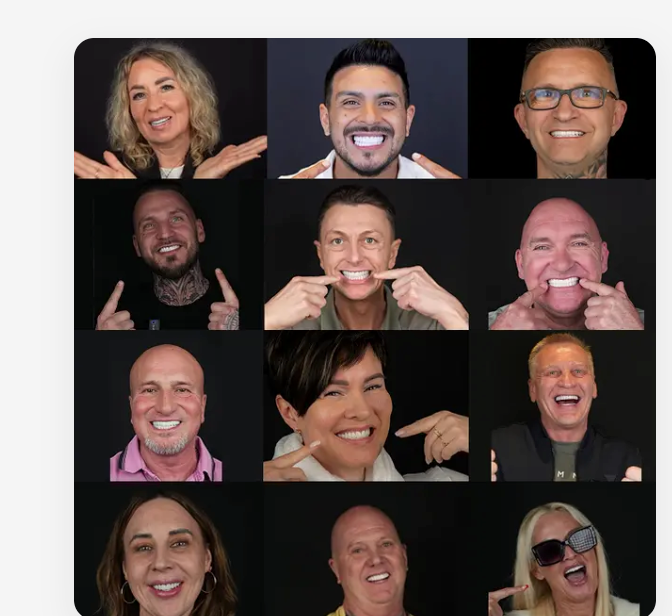
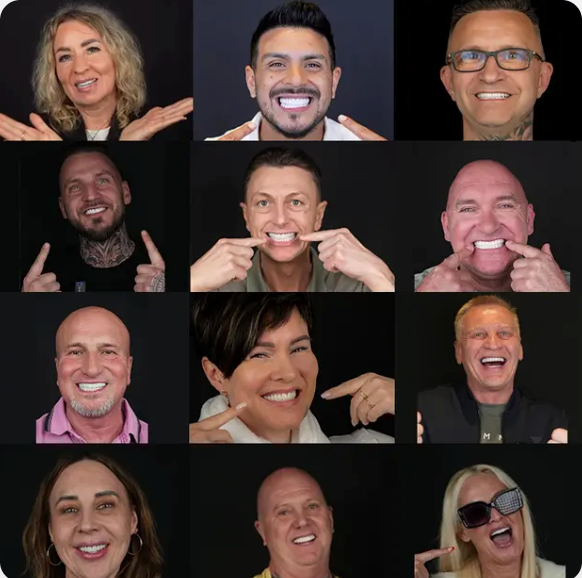
fix(sidebar): crop patient grid to remove margins, fix 1:1 aspect ratio, and update treatment thumbnail to 16:9 dental implant photo

diff --git a/src/components/gallery-sections/GalleryMainSection.tsx b/src/components/gallery-sections/GalleryMainSection.tsx
@@ -233,9 +233,9 @@ export default function GalleryMainSection() {
           <div className={styles.minikart}>
             <div className={styles.ad}>Master Smile Studio</div>
             <div className={styles.im}>
-              <Link href="/contact" aria-label="Free consultation">
+              <Link href="/contact" aria-label="Free consultation" className={styles.imLink}>
                 <Image
-                  src="/mss-afterpics-patients.png"
+                  src="/contact-patients-grid.png"
                   alt="Master Smile Studio VIP Consultation"
                   fill
                   sizes="320px"
@@ -289,13 +289,13 @@ export default function GalleryMainSection() {
                 <div key={idx} className={styles.treatmentItem}>
                   {item.hasImage && (
                     <div className={styles.treatmentThumb}>
-                      <Link href={item.href} aria-label={getLocalized(item.title)}>
+                      <Link href={item.href} aria-label={getLocalized(item.title)} className={styles.treatmentThumbLink}>
                         <Image
-                          src="/prices-treatment-thumb.webp"
+                          src="/dental-implant-mss.jpeg"
                           alt={getLocalized(item.title)}
                           fill
                           sizes="300px"
-                          style={{ objectFit: 'cover' }}
+                          style={{ objectFit: 'cover', objectPosition: 'center' }}
                         />
                       </Link>
                     </div>

diff --git a/src/components/reviews-sections/ReviewsMainSection.tsx b/src/components/reviews-sections/ReviewsMainSection.tsx
@@ -223,10 +223,10 @@ export default function ReviewsMainSection() {
               <div className={styles.imSide}>
                 <Link href="/contact" aria-label="Free consultation" className={styles.imLink}>
                   <Image
-                    src="/mss-afterpics-patients.png"
+                    src="/contact-patients-grid.png"
                     alt="Master Smile Studio VIP Consultation"
                     fill
-                    sizes="160px"
+                    sizes="320px"
                     className={styles.imImgSide}
                   />
                 </Link>
@@ -279,11 +279,11 @@ export default function ReviewsMainSection() {
                       <div className={styles.treatmentThumb}>
                         <Link href={item.href} aria-label={getLocalized(item.title)} className={styles.treatmentThumbLink}>
                           <Image
-                            src="/prices-treatment-thumb.webp"
+                            src="/dental-implant-mss.jpeg"
                             alt={getLocalized(item.title)}
                             fill
                             sizes="300px"
-                            style={{ objectFit: 'cover' }}
+                            style={{ objectFit: 'cover', objectPosition: 'center' }}
                           />
                         </Link>
                       </div>

diff --git a/src/components/blog-sections/BlogMainSection.tsx b/src/components/blog-sections/BlogMainSection.tsx
@@ -298,10 +298,10 @@ export default function BlogMainSection() {
               <div className={styles.imSide}>
                 <Link href="/contact" aria-label="Free consultation" className={styles.imLink}>
                   <Image
-                    src="/mss-afterpics-patients.png"
+                    src="/contact-patients-grid.png"
                     alt="Master Smile Studio VIP Consultation"
                     fill
-                    sizes="160px"
+                    sizes="320px"
                     className={styles.imImgSide}
                   />
                 </Link>
@@ -354,11 +354,11 @@ export default function BlogMainSection() {
                       <div className={styles.treatmentThumb}>
                         <Link href={item.href} aria-label={getLocalized(item.title)} className={styles.treatmentThumbLink}>
                           <Image
-                            src="/prices-treatment-thumb.webp"
+                            src="/dental-implant-mss.jpeg"
                             alt={getLocalized(item.title)}
                             fill
                             sizes="300px"
-                            style={{ objectFit: 'cover' }}
+                            style={{ objectFit: 'cover', objectPosition: 'center' }}
                           />
                         </Link>
                       </div>

diff --git a/src/components/before-after-sections/BeforeAfterMainSection.tsx b/src/components/before-after-sections/BeforeAfterMainSection.tsx
@@ -230,7 +230,7 @@ export default function BeforeAfterMainSection() {
               <div className={styles.imSide}>
                 <Link href="/contact" aria-label="Free consultation" className={styles.imLink}>
                   <Image
-                    src="/mss-afterpics-patients.png"
+                    src="/contact-patients-grid.png"
                     alt="Master Smile Studio VIP Consultation"
                     fill
                     sizes="320px"
@@ -286,11 +286,11 @@ export default function BeforeAfterMainSection() {
                       <div className={styles.treatmentThumb}>
                         <Link href={item.href} aria-label={getLocalized(item.title)} className={styles.treatmentThumbLink}>
                           <Image
-                            src="/prices-treatment-thumb.webp"
+                            src="/dental-implant-mss.jpeg"
                             alt={getLocalized(item.title)}
                             fill
                             sizes="300px"
-                            style={{ objectFit: 'cover' }}
+                            style={{ objectFit: 'cover', objectPosition: 'center' }}
                           />
                         </Link>
                       </div>

diff --git a/src/components/faq-sections/FaqMainSection.tsx b/src/components/faq-sections/FaqMainSection.tsx
@@ -220,7 +220,7 @@ export default function FaqMainSection() {
               <div className={styles.imSide}>
                 <Link href="/contact" aria-label="Free consultation" className={styles.imLink}>
                   <Image
-                    src="/mss-afterpics-patients.png"
+                    src="/contact-patients-grid.png"
                     alt="Master Smile Studio VIP Consultation"
                     fill
                     sizes="320px"
@@ -276,11 +276,11 @@ export default function FaqMainSection() {
                       <div className={styles.treatmentThumb}>
                         <Link href={item.href} aria-label={getLocalized(item.title)} className={styles.treatmentThumbLink}>
                           <Image
-                            src="/prices-treatment-thumb.webp"
+                            src="/dental-implant-mss.jpeg"
                             alt={getLocalized(item.title)}
                             fill
                             sizes="300px"
-                            style={{ objectFit: 'cover' }}
+                            style={{ objectFit: 'cover', objectPosition: 'center' }}
                           />
                         </Link>
                       </div>

diff --git a/src/data/price-list-data.ts b/src/data/price-list-data.ts
@@ -1197,7 +1197,7 @@ export const PRICE_GROUPS: PriceGroup[] = [
 export const PRICING_SIDEBAR_DATA = {
   consultation: {
     clinicName: 'Master Smile Studio',
-    imageSrc: '/mss-afterpics-patients.png',
+    imageSrc: '/contact-patients-grid.png',
     info: {
       en: 'Contact Us For Free Consultation & 3D Treatment Plan',
       tr: 'Ücretsiz Danışmanlık ve 3D Tedavi Planı İçin Bize Ulaşın',
@@ -1216,8 +1216,8 @@ export const PRICING_SIDEBAR_DATA = {
       es: 'SOLICITAR PRESUPUESTO',
       ru: 'ПОЛУЧИТЬ РАСЧЕТ',
     },
-    phone: '+905434568080',
-    formattedPhone: '+90 543 456 80 80',
+    phone: '+905373059947',
+    formattedPhone: '+90 537 305 99 47',
   },
   treatmentsTitle: {
     en: 'Treatments',
@@ -1239,7 +1239,7 @@ export const PRICING_SIDEBAR_DATA = {
       ru: 'Зубные импланты',
     },
     href: '/treatments/dental-implants',
-    imageSrc: '/prices-treatment-thumb.webp',
+    imageSrc: '/dental-implant-mss.jpeg',
   },
   treatmentLinks: [
     {

diff --git a/src/components/gallery-sections/GalleryMainSection.module.css b/src/components/gallery-sections/GalleryMainSection.module.css
@@ -267,15 +267,23 @@
 .im {
   position: relative;
   width: 100%;
-  height: 200px;
-  border-radius: 10px;
+  aspect-ratio: 1 / 1;
+  border-radius: 14px;
   overflow: hidden;
-  margin-bottom: 0.85rem;
-  background-color: #f1f5f9;
+  margin-bottom: 1rem;
+  background-color: #000000;
+}
+
+.imLink {
+  position: relative;
+  width: 100%;
+  height: 100%;
+  display: block;
 }
 
 .imImg {
   object-fit: cover;
+  object-position: center;
 }
 
 .info {
@@ -376,10 +384,19 @@
 .treatmentThumb {
   position: relative;
   width: 100%;
-  height: 120px;
-  border-radius: 8px;
+  aspect-ratio: 16 / 9;
+  min-height: 140px;
+  border-radius: 10px;
   overflow: hidden;
-  margin-bottom: 0.35rem;
+  margin-bottom: 0.5rem;
+  background-color: #0c1b4d;
+}
+
+.treatmentThumbLink {
+  position: relative;
+  width: 100%;
+  height: 100%;
+  display: block;
 }
 
 .treatmentLink {

diff --git a/src/components/blog-sections/BlogMainSection.module.css b/src/components/blog-sections/BlogMainSection.module.css
@@ -188,7 +188,11 @@
 .imSide {
   position: relative;
   width: 100%;
-  height: 160px;
+  aspect-ratio: 1 / 1;
+  border-radius: 14px;
+  overflow: hidden;
+  margin-bottom: 1rem;
+  background-color: #000000;
 }
 
 .imLink {
@@ -198,8 +202,9 @@
   display: block;
 }
 
-.imSide img {
+.imImgSide {
   object-fit: cover;
+  object-position: center;
 }
 
 .miniCardBody {
@@ -273,6 +278,24 @@
   background-color: #fdfaf5;
   color: #c8973a;
   transform: translateX(2px);
+}
+
+.treatmentThumb {
+  position: relative;
+  width: 100%;
+  aspect-ratio: 16 / 9;
+  min-height: 140px;
+  border-radius: 10px;
+  overflow: hidden;
+  margin-bottom: 0.5rem;
+  background-color: #0c1b4d;
+}
+
+.treatmentThumbLink {
+  position: relative;
+  width: 100%;
+  height: 100%;
+  display: block;
 }
 
 /* Responsive */

diff --git a/src/components/faq-sections/FaqMainSection.module.css b/src/components/faq-sections/FaqMainSection.module.css
@@ -227,11 +227,11 @@
 .imSide {
   position: relative;
   width: 100%;
-  height: 200px;
-  border-radius: 10px;
+  aspect-ratio: 1 / 1;
+  border-radius: 14px;
   overflow: hidden;
-  margin-bottom: 0.85rem;
-  background-color: #f1f5f9;
+  margin-bottom: 1rem;
+  background-color: #000000;
 }
 
 .imLink {
@@ -243,6 +243,7 @@
 
 .imImgSide {
   object-fit: cover;
+  object-position: center;
 }
 
 .infoSide {
@@ -343,10 +344,12 @@
 .treatmentThumb {
   position: relative;
   width: 100%;
-  height: 120px;
-  border-radius: 8px;
+  aspect-ratio: 16 / 9;
+  min-height: 140px;
+  border-radius: 10px;
   overflow: hidden;
-  margin-bottom: 0.35rem;
+  margin-bottom: 0.5rem;
+  background-color: #0c1b4d;
 }
 
 .treatmentThumbLink {

diff --git a/src/components/prices-sections/PriceListTableSection.module.css b/src/components/prices-sections/PriceListTableSection.module.css
@@ -238,15 +238,16 @@
 .miniImgWrap {
   position: relative;
   width: 100%;
-  height: 200px;
-  border-radius: 12px;
+  aspect-ratio: 1 / 1;
+  border-radius: 14px;
   overflow: hidden;
-  margin-bottom: 1.15rem;
-  background-color: #f1f5f9;
+  margin-bottom: 1rem;
+  background-color: #000000;
 }
 
 .miniImg {
   object-fit: cover;
+  object-position: center;
   transition: transform 0.3s ease;
 }
 
@@ -357,12 +358,14 @@
 .featuredImgWrap {
   position: relative;
   width: 100%;
-  height: 150px;
-  background-color: #f1f5f9;
+  aspect-ratio: 16 / 9;
+  min-height: 140px;
+  background-color: #0c1b4d;
 }
 
 .featuredImg {
   object-fit: cover;
+  object-position: center;
 }
 
 .featuredTitle {

diff --git a/src/components/reviews-sections/ReviewsMainSection.module.css b/src/components/reviews-sections/ReviewsMainSection.module.css
@@ -282,12 +282,12 @@
 
 .imSide {
   position: relative;
-  width: 160px;
-  height: 160px;
+  width: 100%;
+  aspect-ratio: 1 / 1;
   margin: 0 auto 1rem auto;
-  border-radius: 50%;
+  border-radius: 14px;
   overflow: hidden;
-  border: 3px solid rgba(255, 255, 255, 0.3);
+  border: 1px solid rgba(255, 255, 255, 0.2);
 }
 
 .imLink {
@@ -389,10 +389,12 @@
 .treatmentThumb {
   position: relative;
   width: 100%;
-  height: 160px;
+  aspect-ratio: 16 / 9;
+  min-height: 140px;
   border-radius: 10px;
   overflow: hidden;
   margin-bottom: 0.85rem;
+  background-color: #0c1b4d;
 }
 
 .treatmentThumbLink {

diff --git a/src/components/before-after-sections/BeforeAfterMainSection.module.css b/src/components/before-after-sections/BeforeAfterMainSection.module.css
@@ -261,8 +261,8 @@
 .imSide {
   position: relative;
   width: 100%;
-  height: 200px;
-  border-radius: 10px;
+  aspect-ratio: 1 / 1;
+  border-radius: 12px;
   overflow: hidden;
   margin-bottom: 0.85rem;
   background-color: #f1f5f9;
@@ -377,10 +377,12 @@
 .treatmentThumb {
   position: relative;
   width: 100%;
-  height: 120px;
-  border-radius: 8px;
+  aspect-ratio: 16 / 9;
+  min-height: 140px;
+  border-radius: 10px;
   overflow: hidden;
-  margin-bottom: 0.35rem;
+  margin-bottom: 0.5rem;
+  background-color: #0c1b4d;
 }
 
 .treatmentThumbLink {
